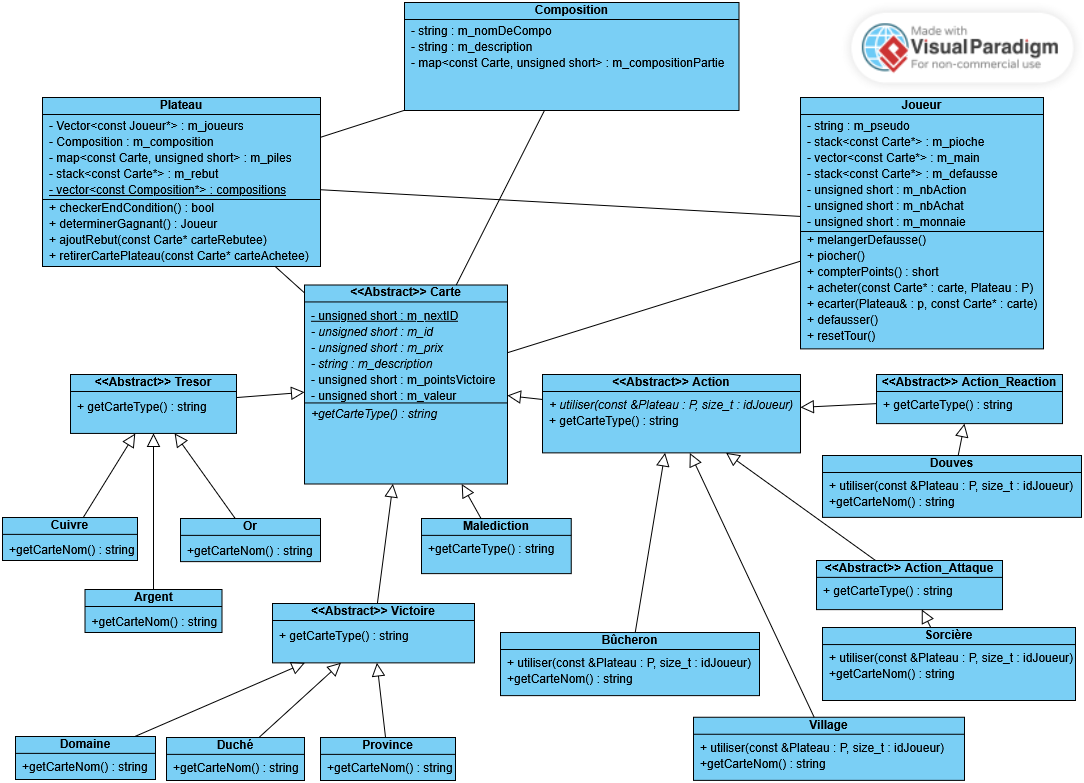
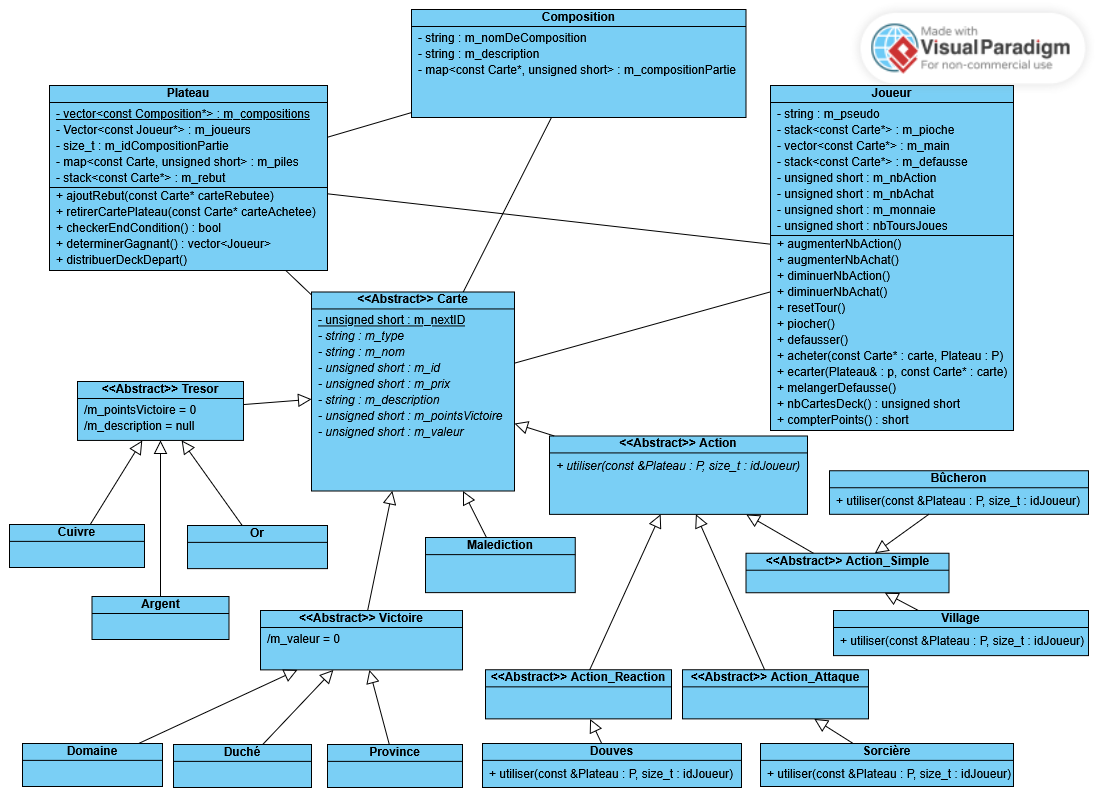
Refactor Composition and Joueur classes; update Plateau to manage compositions and enhance player scoring logic

diff --git a/src/plateau.cpp b/src/plateau.cpp
@@ -1,6 +1,29 @@
+#include <vector>
+
 #include "plateau.hpp"
 
-Plateau::Plateau(std::vector<Joueur> joueurs, Composition compositionPartie) : m_joueurs(joueurs), m_compositionPartie(compositionPartie), m_rebut(std::stack<const Carte*>()), m_piles(std::map<const Carte*, unsigned short>()) {}
+// PARTIE GLOBALE
+
+std::vector<const Composition*> Plateau::m_compositions = {};
+
+void Plateau::ajoutComposition(const Composition &composition) {
+    Plateau::m_compositions.push_back(&composition);
+}
+
+void Plateau::setCompositions(std::vector<const Composition*> compositions) {
+    Plateau::m_compositions = compositions;
+}
+
+std::vector<const Composition*> Plateau::getCompositions() {
+    return Plateau::m_compositions;
+}
+
+
+// PARTIE INSTANCIABLE
+
+Plateau::Plateau(std::vector<const Joueur*> joueurs, size_t idCompositionPartie) : m_joueurs(joueurs), m_idCompositionPartie(idCompositionPartie), m_rebut(std::stack<const Carte*>()), m_piles(Plateau::getCompositions().at(idCompositionPartie)->getCompositionPartie()) {}
+
+Plateau::~Plateau() {}
 
 void Plateau::ajoutRebut(const Carte* carteRebutee) {
     m_rebut.push(carteRebutee);
@@ -21,7 +44,7 @@ bool Plateau::checkerEndCondition(){
             compteur_tmp++;
 
             //On regarde aussi si la pile des Province est vide
-            if(pair.first->getCarteNom() == "Province"){
+            if(pair.first->getNom() == "Province"){
                 return true;
             }
         }
@@ -32,26 +55,26 @@ bool Plateau::checkerEndCondition(){
 
 std::vector<Joueur> Plateau::determinerGagnant(){
 
-    std::vector<Joueur> gagnantsTmp ={m_joueurs.at(0)};
+    std::vector<Joueur> gagnantsTmp = {*m_joueurs.at(0)};
 
     for (auto J = m_joueurs.begin() + 1; J != m_joueurs.end(); ++J){
 
         //Si le joueur a un meilleur score que les gagnants actuels
 
-        if(J->compterPoints() > gagnantsTmp.at(0).compterPoints()){
-            gagnantsTmp.at(0) = *J;
+        if((*J)->compterPoints() > gagnantsTmp.at(0).compterPoints()){
+            gagnantsTmp.at(0) = **J;
 
         //Si le joueur a un score égal aux gagnants actuels
-        } else if (J->compterPoints() == gagnantsTmp.at(0).compterPoints()){
+        } else if ((*J)->compterPoints() == gagnantsTmp.at(0).compterPoints()){
 
             //Si le joueur a - de tour joués que les gagnants actuels
-            if (J->getNbTourJoues() > gagnantsTmp.at(0).getNbTourJoues()){
+            if ((*J)->getNbTourJoues() > gagnantsTmp.at(0).getNbTourJoues()){
                 gagnantsTmp.clear(); 
-                gagnantsTmp.at(0) = *J;
+                gagnantsTmp.at(0) = **J;
 
             //Si le joueur et les gagnants actuels ont le même score et le même nombre de tour joués
-            } else if (J->getNbTourJoues() == gagnantsTmp.at(0).getNbTourJoues()){
-                gagnantsTmp.push_back(*J);
+            } else if ((*J)->getNbTourJoues() == gagnantsTmp.at(0).getNbTourJoues()){
+                gagnantsTmp.push_back(**J);
             }
 
         }

diff --git a/src/joueur.cpp b/src/joueur.cpp
@@ -14,7 +14,7 @@ Joueur::Joueur(std::string pseudo) {
     m_nbAction = 1;
     m_nbAchat = 1;
     m_monnaie = 0;
-    m_nbTourJoues = 0;
+    m_nbToursJoues = 0;
 };
 
 void Joueur::piocher(){
@@ -77,27 +77,34 @@ void Joueur::resetTour() {
     m_nbAction = 1;
 };
 
-short Joueur::compterPoints(){
+unsigned short Joueur::nbCartesDeck() const {
+    return m_pioche.size() + m_main.size() + m_defausse.size();
+}
+
+short Joueur::compterPoints() const {
 
     short score;
 
-    //On reconstruit son deck dans la pioche avec sa défausse et sa main
-    while(!m_main.empty()){
-        defausser(m_main.at(0));
+    short compteurJardin = 0;
+
+    // On regroupe le deck du joueur en une pile
+    std::stack<const Carte*> deck = m_pioche;
+    deck.emplace(m_defausse);
+    deck.emplace(m_main);
+
+    short nbCartesDeck = deck.size();
+
+    // On parcourt le deck du joueur et compte ses points
+    const Carte* carteTmp;
+
+    while (!deck.empty()) {
+        carteTmp = deck.top();
+        score += carteTmp->getPointsVictoire();
+        if (carteTmp->getNom() == "Jardin") compteurJardin += 1;
+        deck.pop();
     }
-    melangerDefausse();
     
-    //On va vider la pioche dans la défausse petit à petit et compter
-    while(!m_pioche.empty()){
-        const Carte* carteTmp = m_pioche.top();
-        if (carteTmp->getCarteType() == "Victoire") {
-            score += const_cast<Victoire*>(static_cast<const Victoire*>(carteTmp))->getPointsVictoire();
-        } else if (carteTmp->getCarteType() == "Malédiction") {
-            score -= const_cast<Victoire*>(static_cast<const Victoire*>(carteTmp))->getPointsVictoire();
-        }
+    score += compteurJardin * (nbCartesDeck/10);
 
-        defausser(m_pioche.top());
-    }
+    return score;
 };
-
-//DERNIERE FONCTION DEGEULASSE

diff --git a/include/plateau.hpp b/include/plateau.hpp
@@ -4,20 +4,30 @@
 #include <stack>
 #include <map>
 
-#include "carte.hpp"
 #include "composition.hpp"
+#include "carte.hpp"
 #include "joueur.hpp"
 
 class Plateau {
 
     private:
-        std::vector<Joueur> m_joueurs;
-        Composition m_compositionPartie;
-        std::stack<const Carte*> m_rebut;
+        // vecteur qui recense toutes les compositions de partie qui existent
+        static std::vector<const Composition*> m_compositions;
+
+        std::vector<const Joueur*> m_joueurs;
+        size_t m_idCompositionPartie;
         std::map<const Carte*, unsigned short> m_piles;
+        std::stack<const Carte*> m_rebut;
 
     public:
-        Plateau(std::vector<Joueur> joueurs, Composition compositionPartie);
+        // méthodes globales
+        static void ajoutComposition(const Composition &composition);
+        static void setCompositions(std::vector<const Composition*> compositions);
+        static std::vector<const Composition*> getCompositions();
+
+
+        // méthodes instanciables
+        Plateau(std::vector<const Joueur*> joueurs, size_t idCompositionPartie);
         ~Plateau();
 
         void ajoutRebut(const Carte* carteRebutee);
@@ -25,6 +35,7 @@ class Plateau {
         void retirerCartePlateau(const Carte* carteAchetee);
 
         bool checkerEndCondition();
+
         std::vector<Joueur> determinerGagnant();
 
 

diff --git a/include/joueur.hpp b/include/joueur.hpp
@@ -21,24 +21,28 @@ class Joueur {
         unsigned short m_nbAchat;
         unsigned short m_monnaie;
 
-        unsigned short m_nbTourJoues;
+        unsigned short m_nbToursJoues;
 
     public:
         Joueur(std::string pseudo);
         ~Joueur();
 
-        unsigned short getNbTourJoues() {return m_nbTourJoues;}
+        unsigned short getNbTourJoues() const {return m_nbToursJoues;}
 
-        unsigned short augmenterNbAction() {m_nbAction++;}
-        unsigned short augmenterNbAchat() {m_nbAchat++;}
-         
+        void augmenterNbAction() {m_nbAction++;}
+        void augmenterNbAchat() {m_nbAchat++;}
+        void diminuerNbAction() {m_nbAction--;}
+        void diminuerNbAchat() {m_nbAchat--;}
+        void resetTour();
+        
         void piocher();
         void defausser(const Carte* cartDefaussee);
         void acheter(const Carte* carteAchetee, Plateau &P);
         void ecarter(Carte* carteRebutee, Plateau& P);
 
         void melangerDefausse();
-        void resetTour();
 
-        short compterPoints();
+        unsigned short nbCartesDeck() const;
+
+        short compterPoints() const;
 };

diff --git a/src/composition.cpp b/src/composition.cpp
@@ -1,0 +1,23 @@
+#include "composition.hpp"
+
+// constructeur
+Composition::Composition(std::string nomDeComposition, std::string description, std::map<const Carte*, unsigned short> compositionPartie) : m_nomDeComposition(nomDeComposition), m_description(description), m_compositionPartie(compositionPartie) {}
+
+// destructeur
+Composition::~Composition() {}
+
+
+// getters
+
+std::string Composition::getNomDeComposition() const {
+    return m_nomDeComposition;
+}
+
+std::string Composition::getDescription() const {
+    return m_description;
+}
+
+std::map<const Carte*, unsigned short> Composition::getCompositionPartie() const {
+    return m_compositionPartie;
+}
+

diff --git a/include/composition.hpp b/include/composition.hpp
@@ -1,6 +1,6 @@
 #pragma once
 
-#include <vector>
+#include <map>
 #include <string>
 
 #include "carte.hpp"
@@ -12,7 +12,14 @@ class Composition {
     std::map<const Carte*, unsigned short> m_compositionPartie;
 
 public:
-    Composition(std::vector<Carte> compositionPartie);
+    Composition(std::string nomDeComposition, std::string description, std::map<const Carte*, unsigned short> compositionPartie);
+
     ~Composition();
-    
+
+    // getters
+    std::string getNomDeComposition() const;
+
+    std::string getDescription() const;
+
+    std::map<const Carte*, unsigned short> getCompositionPartie() const;
 };
